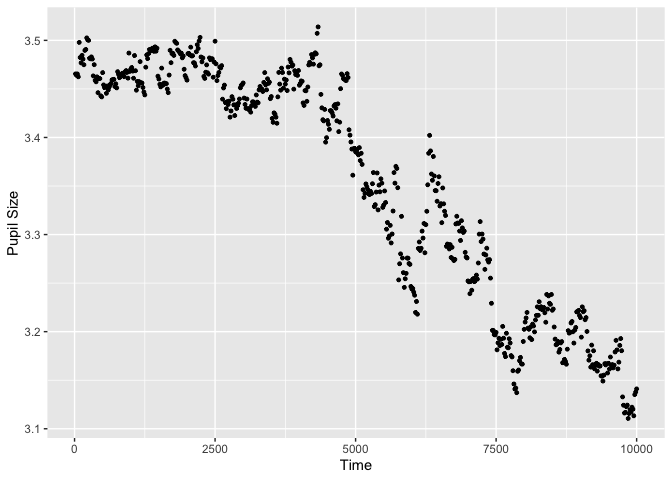
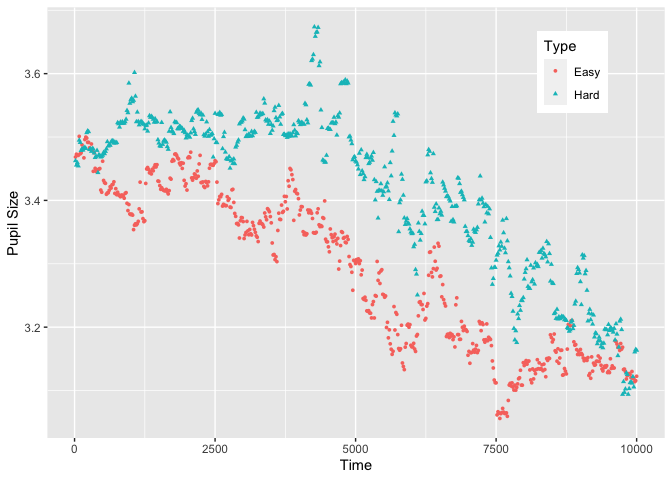
change plot

diff --git a/README.md b/README.md
@@ -75,11 +75,7 @@ All further functions associated with the package follow from there. For
 example:
 
 ``` r
-plot(Sdata, pupil = LPupil)
-#> Warning in if (group == "condition") {: the condition has length > 1 and only
-#> the first element will be used
-#> Warning in if (group == "subject") {: the condition has length > 1 and only the
-#> first element will be used
+plot(Sdata, pupil = LPupil, group = 'condition')
 #> Warning: Removed 3639 rows containing non-finite values (stat_summary).
 ```
 
